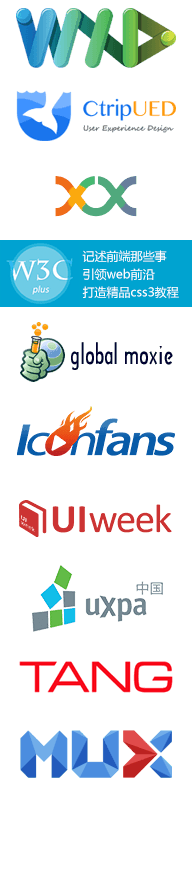
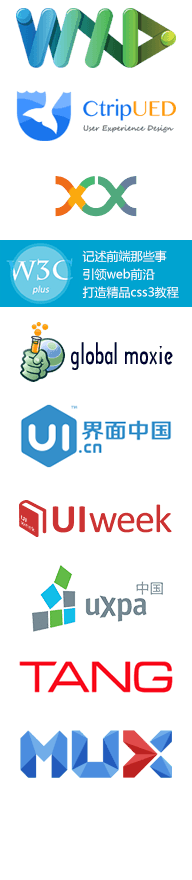
修改UI中国的图片

Changed region(s): [[0.0938, 0.4602, 0.9062, 0.5523]]

diff --git a/styles/dft.css b/styles/dft.css
@@ -1,4 +1,4 @@
-/* DFT 2014.03.25 @llxue */
+/* DesignForTouch.io 14.04.23 @lilyxue */
 html, body, div, dl, dt, dd, ul, ol, li, h1, h2, h3, h4, h5, h6, p, th, td, em, form, input,select, textarea, button, header, nav, menu, section, aside, footer { margin: 0; padding: 0; }
 body { background: #fff; font-size: 24px; font-family: Helvetica, 'Lato', Calibri, Arial, sans-serif; -webkit-text-size-adjust: none; color: rgba(0,0,0,0.8); }
 html, body { height: 100%; }
@@ -75,7 +75,7 @@ header a { color: #fff; text-decoration: underline; }
 .sponsors .sponsor-xux { background-position: 0 -160px; }
 .sponsors .sponsor-w3cplus { background-position: 0 -240px; }
 .sponsors .sponsor-globalmoxie { background-position: 0 -320px; }
-.sponsors .sponsor-iconfans { background-position: 0 -400px; }
+.sponsors .sponsor-uicn { background-position: 0 -400px; }
 .sponsors .sponsor-uiweek { background-position: 0 -480px; }
 .sponsors .sponsor-uxpa { background-position: 0 -560px; }
 .sponsors .sponsor-tang { background-position: 0 -640px; }
@@ -115,7 +115,7 @@ footer { padding: 60px 0; background: #f0f0f0; font-size: 16px; font-weight: 100
 	.sponsors .sponsor-xux { background-position: 0 -80px; }
 	.sponsors .sponsor-w3cplus { background-position: 0 -120px; }
 	.sponsors .sponsor-globalmoxie { background-position: 0 -160px; }
-	.sponsors .sponsor-iconfans { background-position: 0 -200px; }
+	.sponsors .sponsor-uicn { background-position: 0 -200px; }
 	.sponsors .sponsor-uiweek { background-position: 0 -240px; }
 	.sponsors .sponsor-uxpa { background-position: 0 -280px; }
 	.sponsors .sponsor-tang { background-position: 0 -320px; }

diff --git a/index.html b/index.html
@@ -291,7 +291,7 @@
 			<a href="http://http://globalmoxie.com/" class="sponsor-globalmoxie" title="global moxie" target="_blank">global moxie</a>
 			<a href="http://xux.taobao.com/" class="sponsor-xux" title="阿里XUX" target="_blank">阿里XUX</a>
 			<a href="http://mux.baidu.com/" class="sponsor-mux" title="百度MUX" target="_blank">百度MUX</a>
-			<a href="http://www.iconfans.org/" class="sponsor-iconfans" title="UI中国" target="_blank">UI中国</a>
+			<a href="http://www.ui.cn" class="sponsor-uicn" title="UI中国" target="_blank">UI中国</a>
 			<a href="http://www.uiweek.com/" class="sponsor-uiweek" title="UIweek" target="_blank">UIweek</a>
 			<a href="http://www.tang-consulting.com/" class="sponsor-tang" title="唐硕咨询" target="_blank">唐硕咨询</a>
 			<a href="http://www.upachina.org/" class="sponsor-uxpa" title="UXPA中国" target="_blank">UXPA中国</a>
